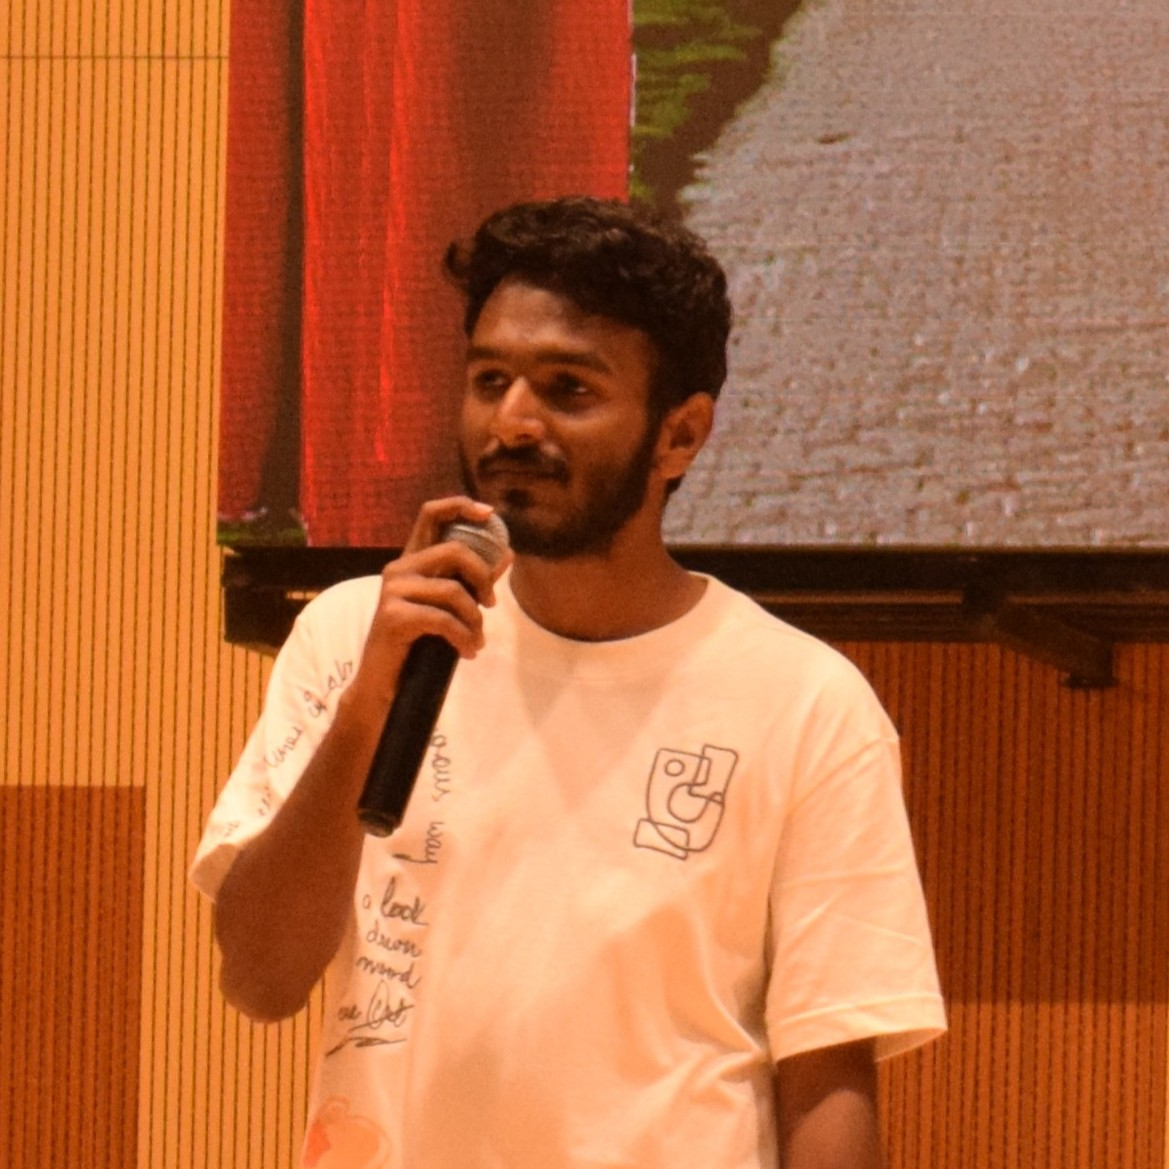
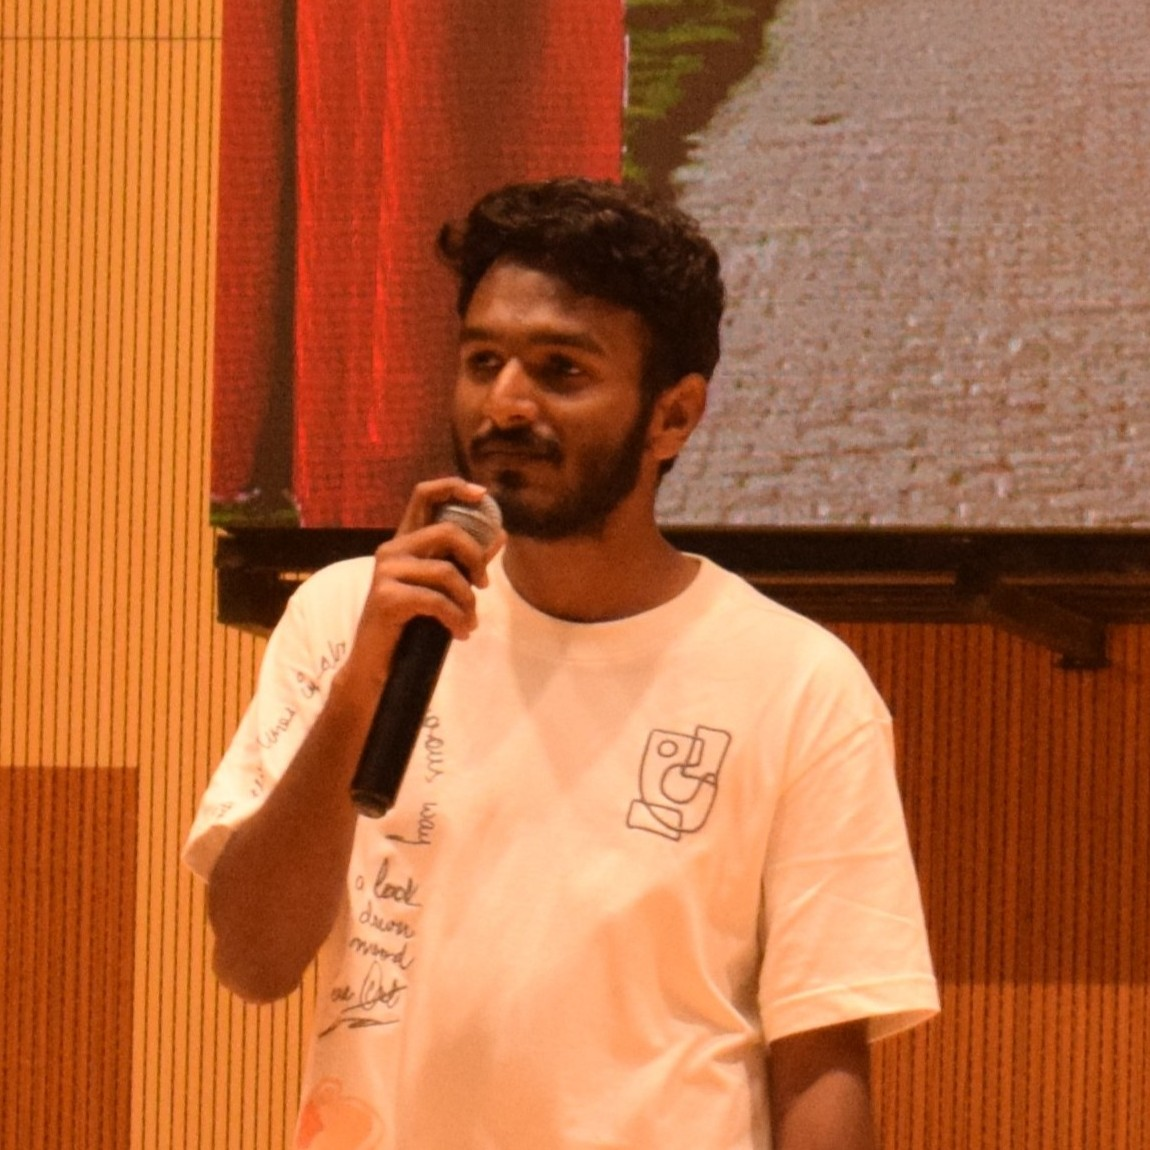
fix web head image

diff --git a/src/app/team/page.tsx b/src/app/team/page.tsx
@@ -142,7 +142,7 @@ export default function Page() {
 				<div className="text-lg mb-6 text-center w-3/4 mx-auto md:w-auto">The Digital Pulse of EBSB:
 					Connecting Cultures, Celebrating Diversity</div>
 				<div className="flex flex-col justify-items-center *:mx-auto">
-					<Card src="team/web/ruthwik.jpg" title="WEB HEAD" name="Ruthwik Kanna" />
+					<Card src="team/web/ruthwik.JPG" title="WEB HEAD" name="Ruthwik Kanna" />
 					<div className="flex flex-row flex-wrap justify-center mt-12 *:mb-2 lg:*:mb-auto *:mx-4">
 	
 					</div>
